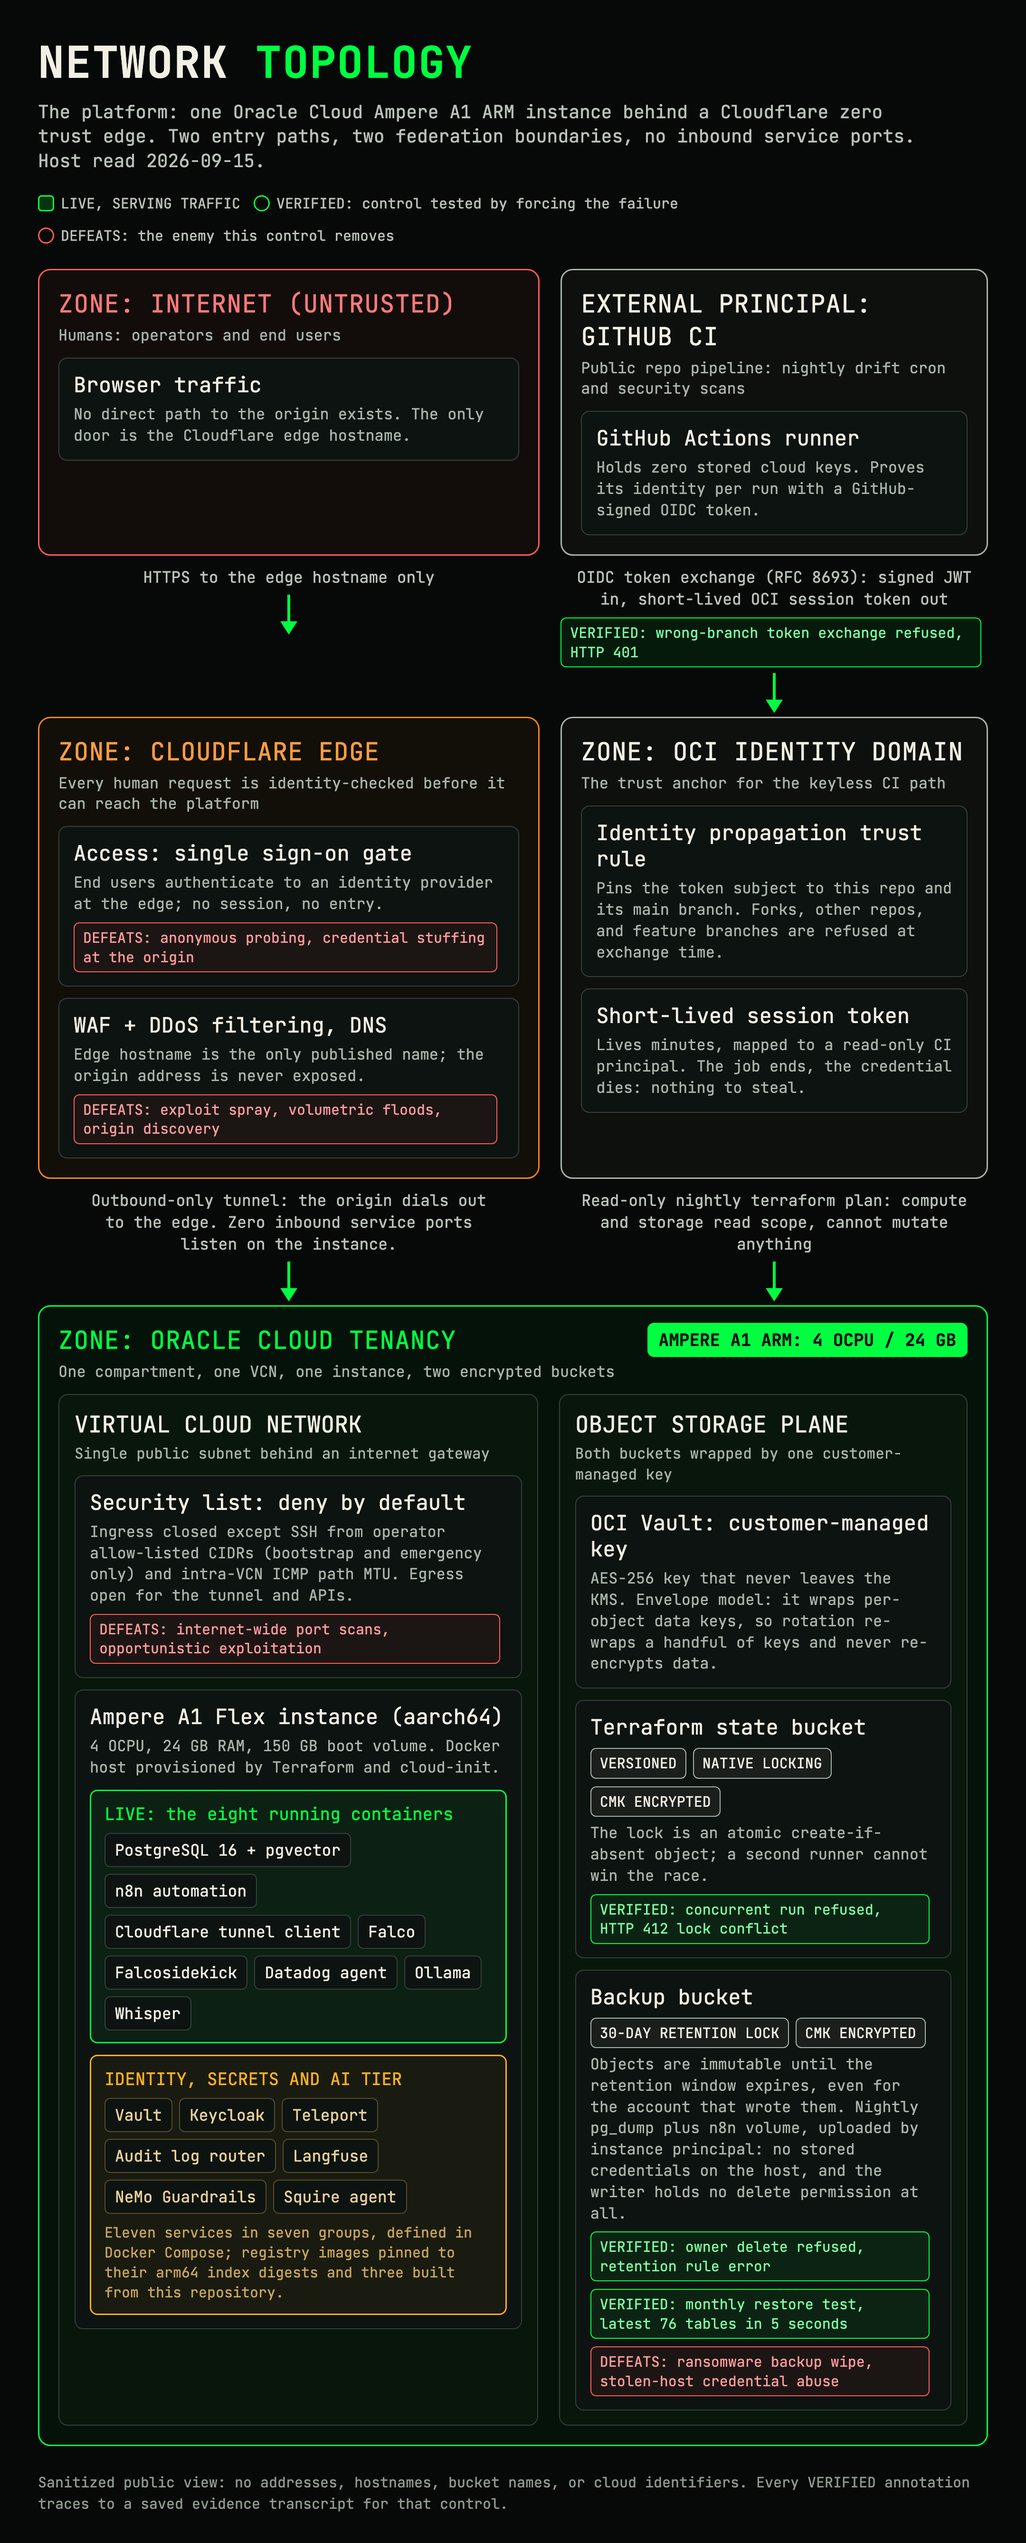
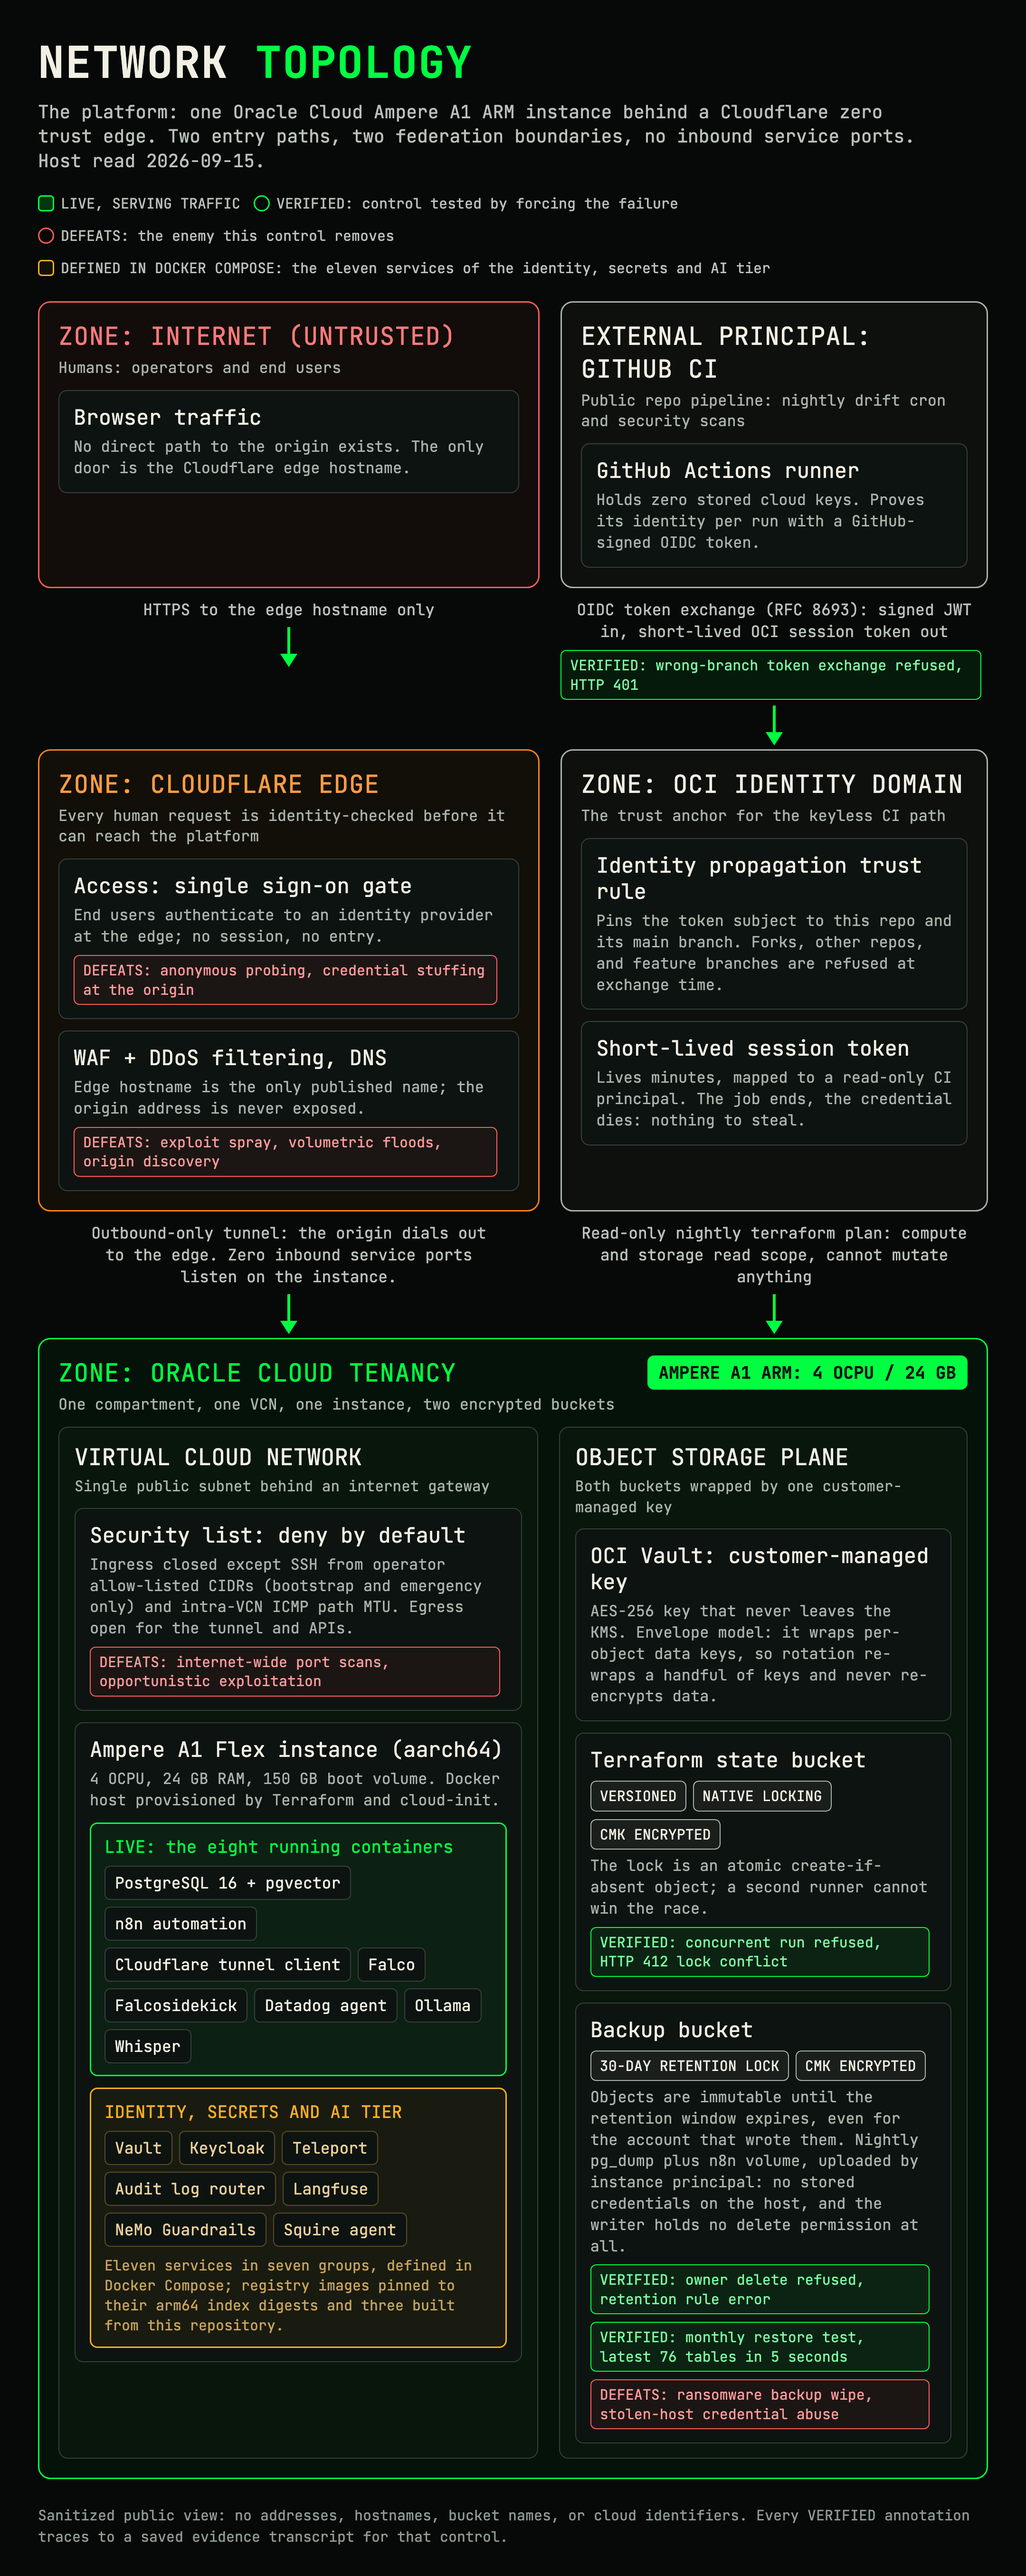
fix(24-01): the boundaries tier box, a legend key, the pipeline count, and three lines naming a dead provider or a private tree

diff --git a/docs/grc/diagrams/security_boundaries.html b/docs/grc/diagrams/security_boundaries.html
@@ -47,6 +47,7 @@
   .icard { flex:1; min-width:520px; background:#0d1310; border:2px solid #33413a; border-radius:16px; padding:24px 26px; }
   .ilabel { font-family:'JetBrains Mono','SF Mono',Menlo,monospace; font-size:40px; color:#f2efe4; line-height:1.25; }
   .isub { font-size:31px; color:#a8b3aa; margin-top:10px; line-height:1.35; }
+  .icard.tier { border-color:#FFB020; background:rgba(255,176,32,.05); } .icard.tier .ilabel { color:#e8cf9a; } .icard.tier .isub { color:#c9a45c; }
 
   .gov { margin-top:64px; border:3px solid #00FF41; border-radius:26px; padding:38px 44px 44px; background:rgba(0,255,65,.03); }
   .govh { font-family:'JetBrains Mono','SF Mono',Menlo,monospace; font-size:54px; color:#00FF41; margin-bottom:10px; }
@@ -130,8 +131,8 @@
       <div class="ilabel">Live workload: the eight running containers</div>
       <div class="isub">PostgreSQL 16 with pgvector, n8n, the Cloudflare tunnel client, Falco, Falcosidekick, the Datadog agent, Ollama and Whisper.</div>
     </div>
-    <div class="icard">
-      <div class="ilabel">Identity, secrets and AI tier</div>
+    <div class="icard tier">
+      <div class="ilabel">Identity, secrets and AI tier: defined in Docker Compose</div>
       <div class="isub">Eleven services in seven groups: Vault, Keycloak, Teleport, the audit log router, Langfuse, NeMo Guardrails, Squire agent.</div>
     </div>
   </div>

diff --git a/docs/grc/diagrams/network_topology.html b/docs/grc/diagrams/network_topology.html
@@ -18,6 +18,7 @@
   .sw.live { background:rgba(0,255,65,.18); border:3px solid #00FF41; }
   .sw.ver  { background:transparent; border:3px solid #00FF41; border-radius:50%; }
   .sw.def  { background:transparent; border:3px solid #FF5C5C; border-radius:50%; }
+  .sw.tier { background:rgba(255,176,32,.05); border:3px solid #FFB020; }
 
   .zone { border-radius:26px; padding:36px 40px 40px; position:relative; }
   .zlabel { font-family:'JetBrains Mono','SF Mono',Menlo,monospace; font-size:52px; letter-spacing:1px; margin-bottom:10px; }
@@ -82,6 +83,7 @@
   <div class="lg"><span class="sw live"></span>LIVE, SERVING TRAFFIC</div>
   <div class="lg"><span class="sw ver"></span>VERIFIED: control tested by forcing the failure</div>
   <div class="lg"><span class="sw def"></span>DEFEATS: the enemy this control removes</div>
+  <div class="lg"><span class="sw tier"></span>DEFINED IN DOCKER COMPOSE: the eleven services of the identity, secrets and AI tier</div>
 </div>
 
 <!-- Row 1: the two external principals -->

diff --git a/README.md b/README.md
@@ -230,7 +230,7 @@ Want to stand this up in your own tenancy? Start at the
 ├── tests/                           Tests for the GRC tooling under scripts/grc
 ├── templates/                       Jinja template for the generated LinkedIn summary
 ├── scripts/                         build_metrics, poam_sync, sync_views, image and fact verifiers
-├── .github/workflows/               16 pipelines, every third-party action SHA-pinned
+├── .github/workflows/               18 pipelines, every third-party action SHA-pinned
 ├── .githooks/                       Commit + push gates (secrets, style, metrics)
 ├── renovate.json                    Dependency and image update policy by tier
 └── .env.example                     Variable names the master compose expects (values come from a secrets manager)

diff --git a/docs/grc/PLAYBOOK_DDOS_SERVICE_DEGRADATION.md b/docs/grc/PLAYBOOK_DDOS_SERVICE_DEGRADATION.md
@@ -312,7 +312,7 @@ Applies to all services hosted on `alpha-node` (4vCPU/8GB VPS), the `svc-tunnel`
  EOF
  ```
 
-- [ ] **Step 2.6**: If the VPS itself is being directly targeted (bypassing edge security). Note: the DigitalOcean droplet has a public IP (`10.100.1.10` sanitized), so direct origin reach is technically possible.
+- [ ] **Step 2.6**: If the VPS itself is being directly targeted (bypassing edge security). Note: the instance has a public IP (`10.100.1.10` sanitized), so direct origin reach is technically possible.
  ```bash
  # Verify only the tunnel and SSH are listening on public interfaces.
  # All services should bind to 127.0.0.1 only (confirmed via docker-compose.yaml).

diff --git a/docs/grc/POLICY_DISASTER_RECOVERY.md b/docs/grc/POLICY_DISASTER_RECOVERY.md
@@ -100,7 +100,7 @@ This plan covers the recovery of:
 
 ### 4.2 Scenario B - VPS Corruption (OS or Disk Failure)
 
-**Description:** The VPS operating system becomes unbootable, the disk is corrupted, or a kernel panic renders the host non-functional. DigitalOcean infrastructure is operational but the specific instance is damaged.
+**Description:** The VPS operating system becomes unbootable, the disk is corrupted, or a kernel panic renders the host non-functional. Oracle Cloud infrastructure is operational but the specific instance is damaged.
 
 **Impact:** All 19 Compose-managed services offline. Data on local volumes may be lost or inaccessible.
 
